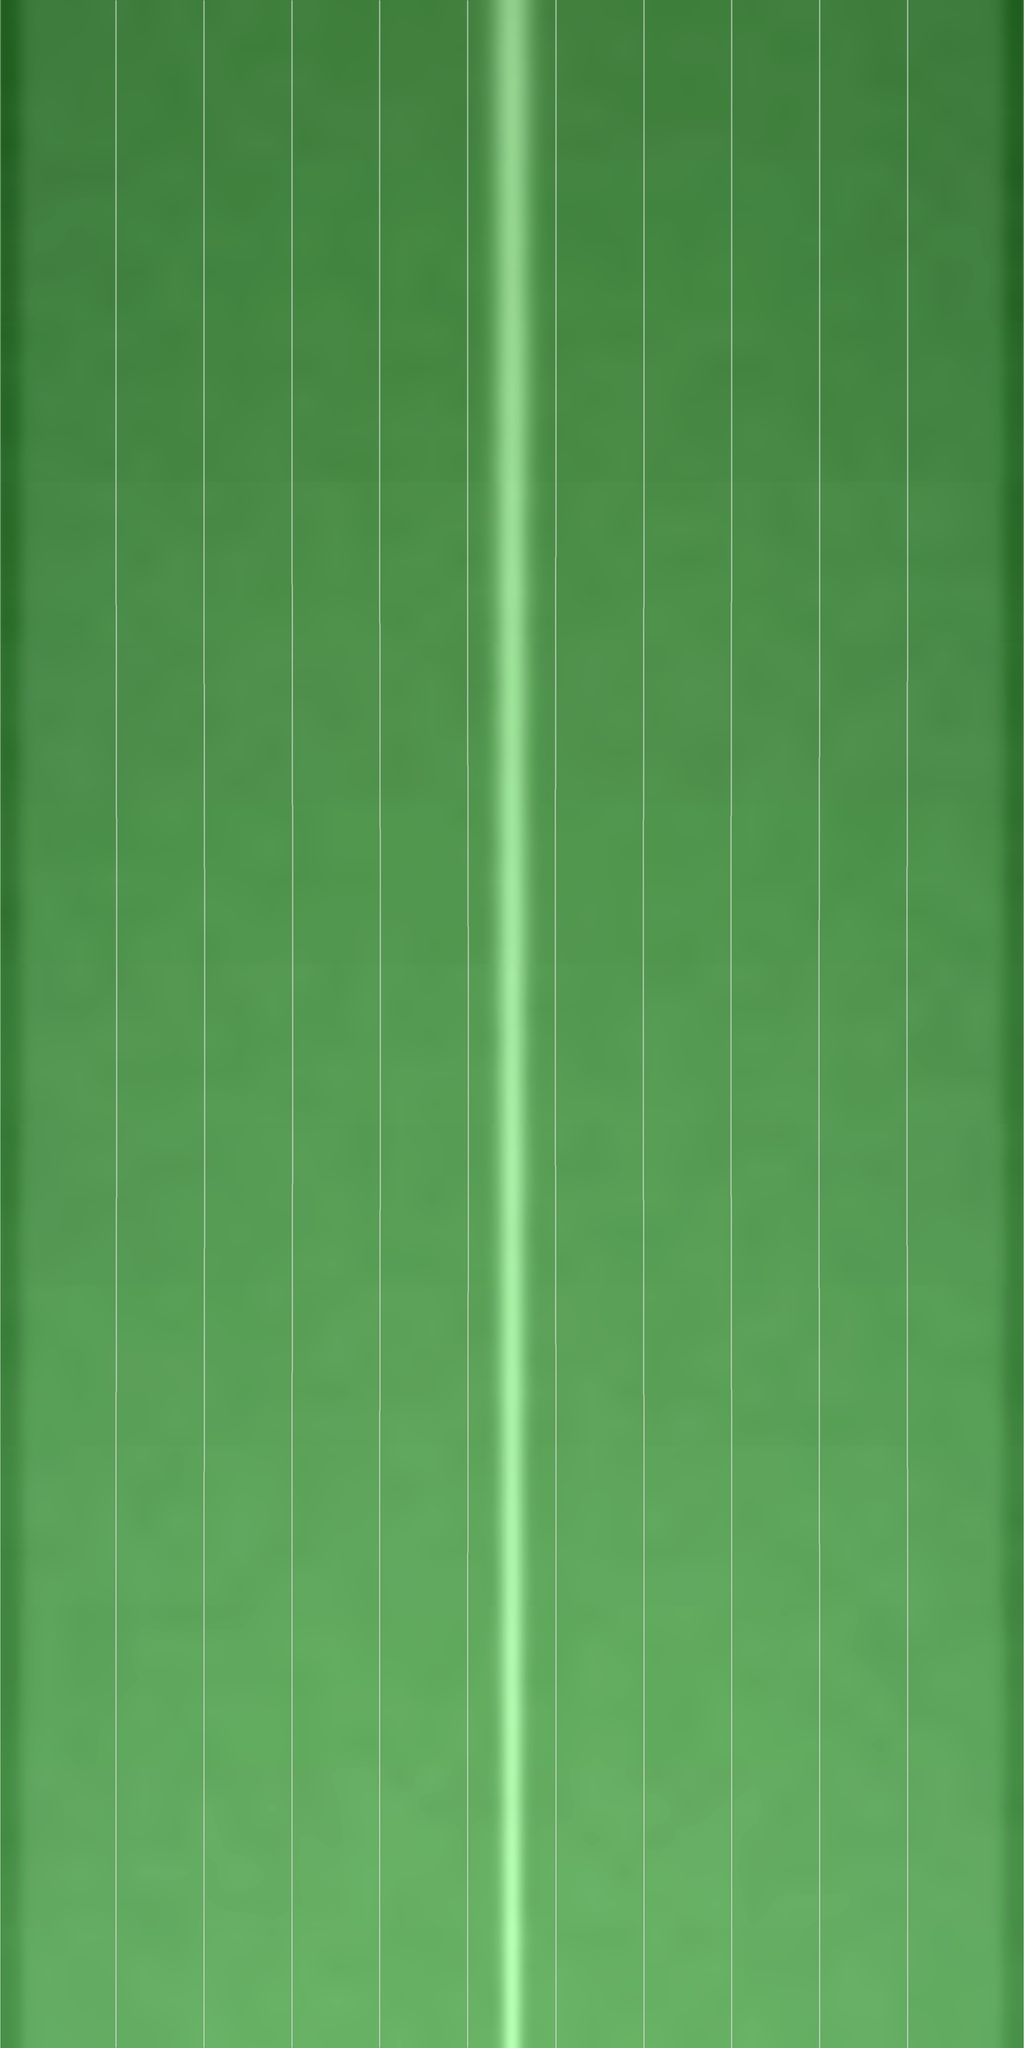
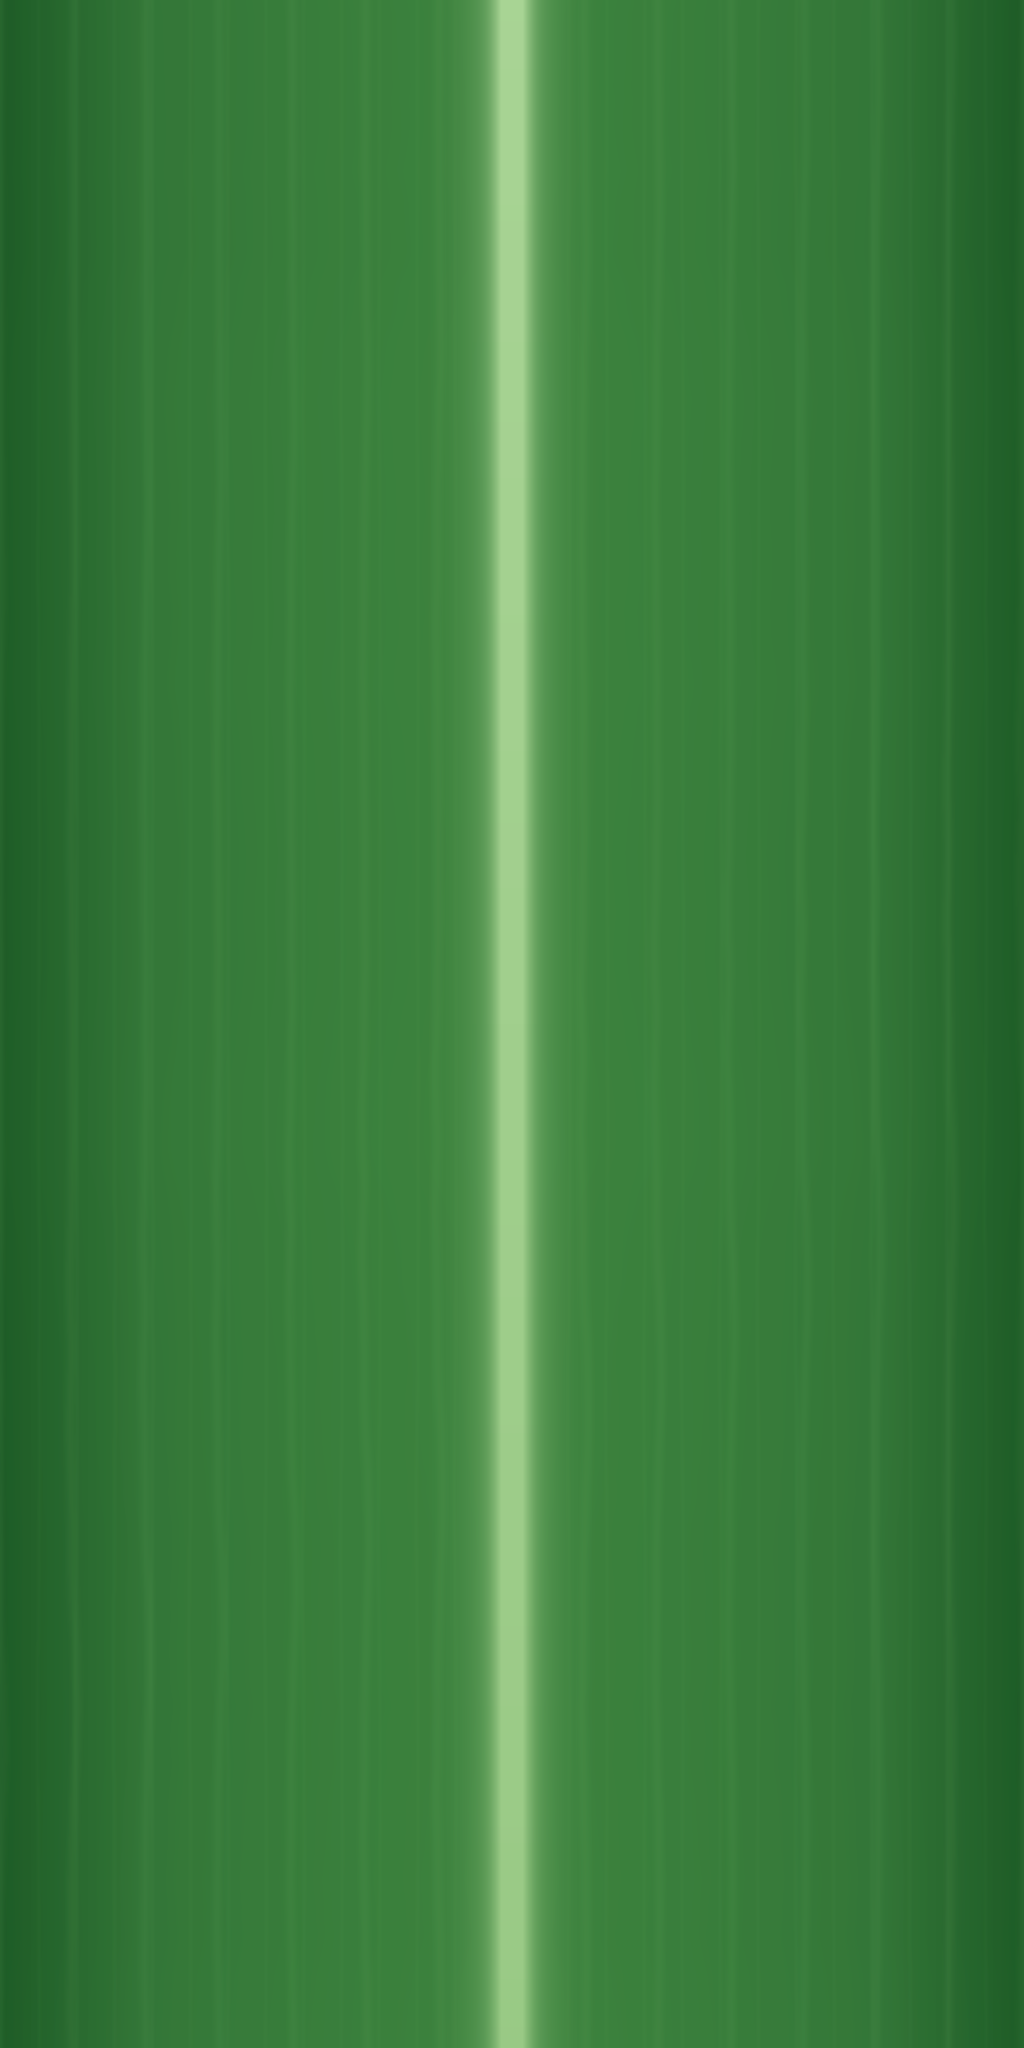
new texture, fixed bugs

diff --git a/Descriptor.cpp b/Descriptor.cpp
@@ -68,8 +68,13 @@ namespace Descriptor {
             tiller_elem->SetAttribute("radius", td.radius);
             tiller_elem->SetAttribute("alpha", td.alphaDeg);
             tiller_elem->SetAttribute("beta", td.azimuthDeg);
+            tiller_elem->SetAttribute("azimuthNoise", td.azimuthNoise);
             tiller_elem->SetAttribute("randomSeed", td.randomSeed);
             tiller_elem->SetAttribute("stemShrink", td.stemShrink);
+            if (td.useStemCtrlOverrides && !td.stemCtrlOverride.empty()) {
+                tiller_elem->SetAttribute("useStemCtrlOverrides", 1);
+                saveSplineAsAttributes(tiller_elem, "stemCtrl", td.stemCtrlOverride);
+            }
 
             XMLElement* leaves_elem = doc.NewElement("leaves");
             leaves_elem->SetAttribute("number", (int)td.leaves.size());
@@ -89,6 +94,7 @@ namespace Descriptor {
                 leaf_elem->SetAttribute("splinePoints", L.splinePoints);
                 leaf_elem->SetAttribute("widthTaper", L.widthTaper);
                 leaf_elem->SetAttribute("leafTwist", L.leafTwist);
+                leaf_elem->SetAttribute("leafCurl", L.leafCurl);
 
                 leaf_elem->SetAttribute("waveLAmp", L.waveLAmp);
                 leaf_elem->SetAttribute("waveLFreq", L.waveLFreq);
@@ -104,6 +110,17 @@ namespace Descriptor {
                 leaf_elem->SetAttribute("liguleWrapLengthScale", L.liguleWrapLengthScale);
                 leaf_elem->SetAttribute("liguleUnfoldSharpness", L.liguleUnfoldSharpness);
                 leaf_elem->SetAttribute("sheathOuterScale", L.sheathOuterScale);
+
+                if (L.useCtrlOverrides && !L.ctrlCenterOverride.empty()) {
+                    leaf_elem->SetAttribute("useCtrlOverrides", 1);
+                    saveSplineAsAttributes(leaf_elem, "ctrlCenter", L.ctrlCenterOverride);
+                    if (!L.ctrlLeftOverride.empty() && L.ctrlLeftOverride.size() == L.ctrlCenterOverride.size()) {
+                        saveSplineAsAttributes(leaf_elem, "ctrlLeft", L.ctrlLeftOverride);
+                    }
+                    if (!L.ctrlRightOverride.empty() && L.ctrlRightOverride.size() == L.ctrlCenterOverride.size()) {
+                        saveSplineAsAttributes(leaf_elem, "ctrlRight", L.ctrlRightOverride);
+                    }
+                }
 
                 leaves_elem->InsertEndChild(leaf_elem);
             }
@@ -130,8 +147,15 @@ namespace Descriptor {
             t->QueryFloatAttribute("radius", &td.radius);
             t->QueryFloatAttribute("alpha", &td.alphaDeg);
             t->QueryFloatAttribute("beta", &td.azimuthDeg);
+            t->QueryFloatAttribute("azimuthNoise", &td.azimuthNoise);
             t->QueryUnsignedAttribute("randomSeed", &td.randomSeed);
             t->QueryFloatAttribute("stemShrink", &td.stemShrink);
+            int useStemOverrides = 0;
+            t->QueryIntAttribute("useStemCtrlOverrides", &useStemOverrides);
+            if (useStemOverrides) {
+                loadSplineFromAttributes(t, "stemCtrl", td.stemCtrlOverride);
+                td.useStemCtrlOverrides = !td.stemCtrlOverride.empty();
+            }
 
             if (const XMLElement* leaves = t->FirstChildElement("leaves")) {
                 for (const XMLElement* lf = leaves->FirstChildElement("leaf"); lf; lf = lf->NextSiblingElement("leaf")) {
@@ -148,6 +172,7 @@ namespace Descriptor {
                     L.splinePoints = 4; 
                     L.widthTaper = 1.0f;
                     L.leafTwist = 0.0f;
+                    L.leafCurl = 0.0f;
 
                     L.waveLAmp = 0.0f;
                     L.waveLFreq = 0.0f;
@@ -173,6 +198,7 @@ namespace Descriptor {
                     lf->QueryIntAttribute("splinePoints", &L.splinePoints);
                     lf->QueryFloatAttribute("widthTaper", &L.widthTaper);
                     lf->QueryFloatAttribute("leafTwist", &L.leafTwist);
+                    lf->QueryFloatAttribute("leafCurl", &L.leafCurl);
 
                     lf->QueryFloatAttribute("waveLAmp", &L.waveLAmp);
                     lf->QueryFloatAttribute("waveLFreq", &L.waveLFreq);
@@ -189,10 +215,19 @@ namespace Descriptor {
                     lf->QueryFloatAttribute("liguleUnfoldSharpness", &L.liguleUnfoldSharpness);
                     lf->QueryFloatAttribute("sheathOuterScale", &L.sheathOuterScale);
 
-                    L.useCtrlOverrides = false;
-                    L.ctrlCenterOverride.clear();
-                    L.ctrlLeftOverride.clear();
-                    L.ctrlRightOverride.clear();
+                    int useOverrides = 0;
+                    lf->QueryIntAttribute("useCtrlOverrides", &useOverrides);
+                    if (useOverrides) {
+                        loadSplineFromAttributes(lf, "ctrlCenter", L.ctrlCenterOverride);
+                        loadSplineFromAttributes(lf, "ctrlLeft", L.ctrlLeftOverride);
+                        loadSplineFromAttributes(lf, "ctrlRight", L.ctrlRightOverride);
+                        if (!L.ctrlCenterOverride.empty()) {
+                            if (L.ctrlLeftOverride.size() != L.ctrlCenterOverride.size() || L.ctrlRightOverride.size() != L.ctrlCenterOverride.size()) {
+                                buildLeafSidesFromCenter(L);
+                            }
+                            L.useCtrlOverrides = true;
+                        }
+                    }
 
                     // Clamp it just in case
                     L.splinePoints = std::max(4, std::min(L.splinePoints, 40));

diff --git a/Maize.cpp b/Maize.cpp
@@ -145,6 +145,17 @@ namespace Maize {
             return Vect3d(newX, newY, 0.f);
         };
 
+        auto pushSection = [&](const Vect3d& leftCurl, const Vect3d& rightCurl, float zVal, const Vect3d& centerP) {
+            Vect3d leftP(leftCurl.x(), leftCurl.y(), zVal);
+            Vect3d rightP(rightCurl.x(), rightCurl.y(), zVal);
+            Vect3d mid = (leftP + rightP) * 0.5f;
+            Vect3d recenter = centerP - mid;
+            leftP = leftP + recenter;
+            rightP = rightP + recenter;
+            outLeft.push_back(leftP);
+            outRight.push_back(rightP);
+        };
+
         Vect3d currentDir = startDir;
 
         const int extraCtrlPoints = 2;
@@ -177,8 +188,7 @@ namespace Maize {
                 Vect3d leftCurl = applyCurl(blended_x_left, y_seg);
                 Vect3d rightCurl = applyCurl(blended_x_right, y_seg);
                 outCenter.push_back(interpPos);
-                outLeft.push_back({ leftCurl.x(), leftCurl.y(), interpPos.z() });
-                outRight.push_back({ rightCurl.x(), rightCurl.y(), interpPos.z() });
+                pushSection(leftCurl, rightCurl, interpPos.z(), interpPos);
             }
         }
 
@@ -194,8 +204,7 @@ namespace Maize {
             float y_seg = lerp_v3(Vect3d(0, p0_ly, 0), Vect3d(0, currentPos.y(), 0), t_seg).y();
             Vect3d leftCurl = applyCurl(blended_x_left, y_seg);
             Vect3d rightCurl = applyCurl(blended_x_right, y_seg);
-            outLeft.push_back({ leftCurl.x(), leftCurl.y(), currentPos.z() });
-            outRight.push_back({ rightCurl.x(), rightCurl.y(), currentPos.z() });
+            pushSection(leftCurl, rightCurl, currentPos.z(), currentPos);
         }
 
         for (int i = 2; i < L.splinePoints; ++i) {
@@ -234,8 +243,7 @@ namespace Maize {
 
                 Vect3d leftCurl = applyCurl(blended_x_left, y_s);
                 Vect3d rightCurl = applyCurl(blended_x_right, y_s);
-                outLeft.push_back({ leftCurl.x(), leftCurl.y(), z_s });
-                outRight.push_back({ rightCurl.x(), rightCurl.y(), z_s });
+                pushSection(leftCurl, rightCurl, z_s, currentPos);
             }
             else {
                 float t_remap = (t - t_p1) / (1.0f - t_p1);
@@ -268,8 +276,7 @@ namespace Maize {
 
                 Vect3d leftCurl = applyCurl(-current_halfWidth_x, y_s + noiseL);
                 Vect3d rightCurl = applyCurl(current_halfWidth_x, y_s + noiseR);
-                outLeft.push_back({ leftCurl.x(), leftCurl.y(), z_s });
-                outRight.push_back({ rightCurl.x(), rightCurl.y(), z_s });
+                pushSection(leftCurl, rightCurl, z_s, currentPos);
             }
         }
 
@@ -520,7 +527,7 @@ void MaizeModel::rebuildGeometry() {
             float liguleWrapLength = std::max(0.001f, final_radius_at_collar * std::max(0.5f, L.liguleWrapLengthScale));
             float liguleUnfoldPower = std::max(0.2f, L.liguleUnfoldSharpness);
             float sheathFrac = 0.0f;
-            float sheathGrowEndFrac = std::min(sheathFrac, std::max(0.04f, sheathFrac * 0.55f));
+            float sheathGrowEndFrac = clampf(0.08f, 0.04f, 0.18f);
             float unfoldStartFrac = sheathFrac;
             float unfoldEndFrac = clampf(unfoldStartFrac + 0.22f, unfoldStartFrac + 0.02f, 0.99f);
             float arcLen = 0.0f;
@@ -619,8 +626,13 @@ void MaizeModel::rebuildGeometry() {
                         Vect3d rel = p_final - sheath_center_pos;
                         Vect3d relPerp = rel - stem_axis * rel.Dot(stem_axis);
                         float relPerpLen = relPerp.Length();
-                        float minWrapRadius = global_radius + (final_radius_at_collar - global_radius) * (0.55f + 0.45f * protect);
-                        minWrapRadius = (std::max)(minWrapRadius, global_radius * 1.08f);
+                        float attachRelax = 1.0f;
+                        if (sheathGrowEndFrac > 1e-6f && s_blade < sheathGrowEndFrac) {
+                            attachRelax = clampf(s_blade / sheathGrowEndFrac, 0.0f, 1.0f);
+                            attachRelax = attachRelax * attachRelax * (3.0f - 2.0f * attachRelax);
+                        }
+                        float minWrapRadius = global_radius + (final_radius_at_collar - global_radius) * ((0.55f + 0.45f * protect) * attachRelax);
+                        minWrapRadius = (std::max)(minWrapRadius, global_radius * (1.0f + 0.08f * attachRelax));
                         if (relPerpLen < minWrapRadius) {
                             Vect3d outDir = (relPerpLen > 1e-6f) ? (relPerp / relPerpLen) : stem_normal;
                             p_final = sheath_center_pos + stem_axis * rel.Dot(stem_axis) + outDir * minWrapRadius;

diff --git a/src/main.cpp b/src/main.cpp
@@ -509,10 +509,10 @@ static void display() {
                 needUpdate |= ImGui::SliderFloat("Twist", &L.leafTwist, -180.f, 180.f);
                 ImGui::Text("Waves");
                 needUpdate |= ImGui::SliderFloat("L Amp", &L.waveLAmp, 0.f, 0.05f);
-                needUpdate |= ImGui::SliderFloat("L Freq", &L.waveLFreq, 0.f, 20.f);
+                needUpdate |= ImGui::SliderFloat("L Freq", &L.waveLFreq, 0.f, 100.f);
                 needUpdate |= ImGui::SliderFloat("L Phase", &L.waveLPhase, -6.283f, 6.283f);
                 needUpdate |= ImGui::SliderFloat("R Amp", &L.waveRAmp, 0.f, 0.05f);
-                needUpdate |= ImGui::SliderFloat("R Freq", &L.waveRFreq, 0.f, 20.f);
+                needUpdate |= ImGui::SliderFloat("R Freq", &L.waveRFreq, 0.f, 100.f);
                 needUpdate |= ImGui::SliderFloat("R Phase", &L.waveRPhase, -6.283f, 6.283f);
 
                 ImGui::Text("Leaf Surface");
